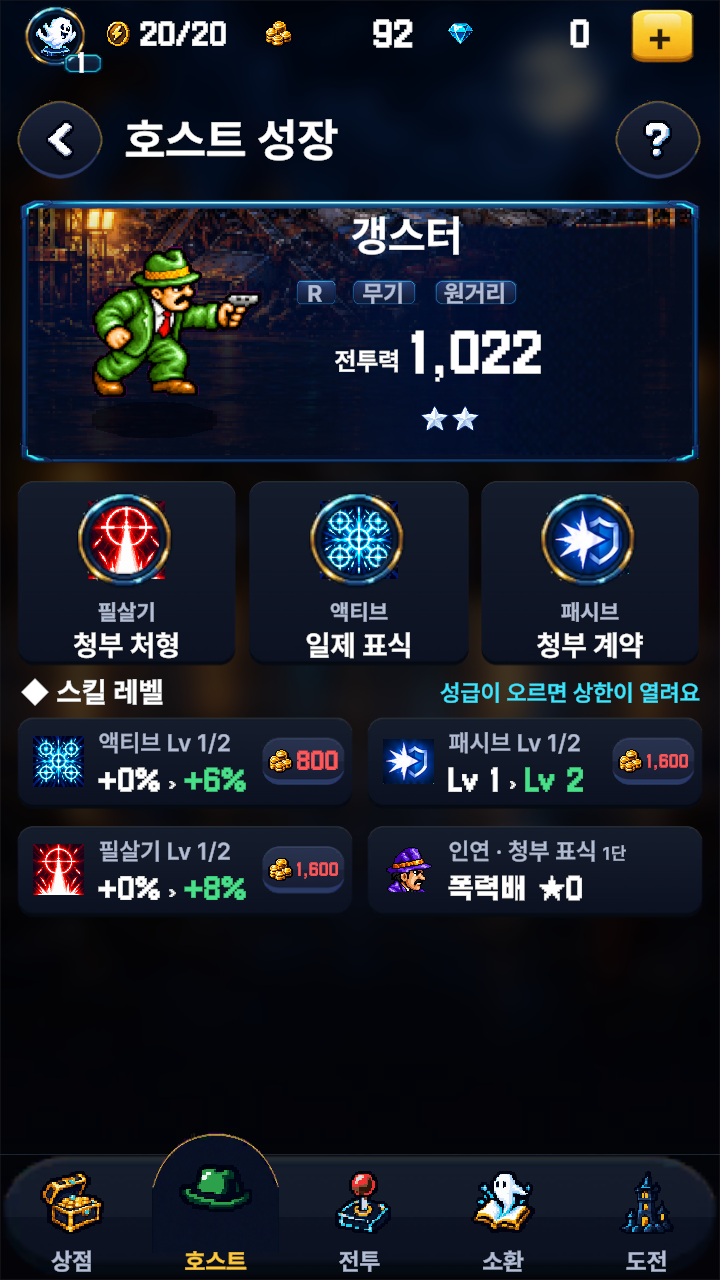
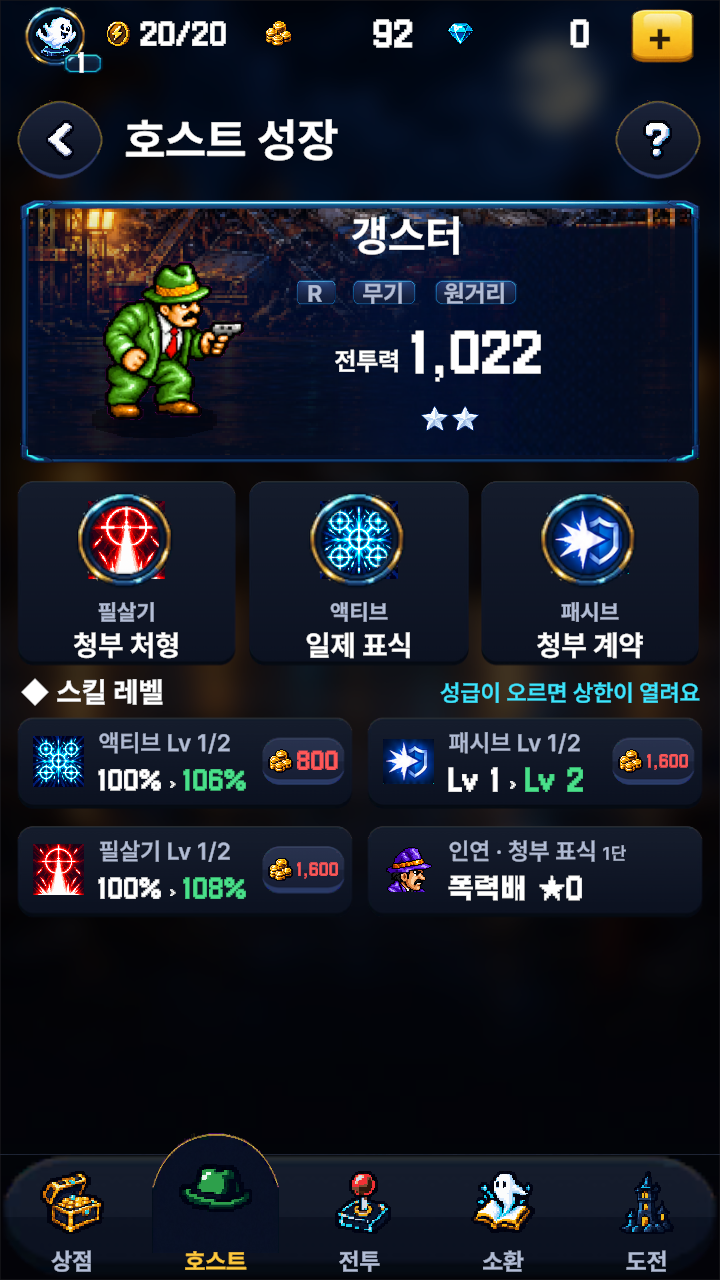
AVSR 육성 — 유령 능력치 8줄(치명타 피해 · 사거리 되살림) · 스킬 위력을 「100% › 106%」 로(PD 2026-10-29)
- 유령 강화: 공격력 · 호스트 체력 · 치명타 · 치명타 피해(+1%p/단계) · 공격 속도 · 이동 속도 · 사거리(직업별 0.3~1%/단계) · 받는 피해 감소
  · 육성 개편 때 빠졌던 두 줄 — PD 「치명타 피해도 있지 않았어? 스탯 종류가 너무 적다」
  · 사거리는 판 계산(HostStats.UpgradedRange)에 유령 사거리 단계를 넘기도록 다시 연결
  · 설정 파일(GameConfig.asset) 값도 0 → 1(코드 기본값만 바꾸면 저장된 0 이 남아 줄이 잠겼다)
- 호스트 스킬 레벨 칸: 「+0% › +6%」(효과 없는 것처럼 읽힘) → 「100% › 106%」 · 필살기 「100% › 108%」
- 캡처로 확인(유령 8줄 · 호스트 성장)

Changed region(s): [[0.1222, 0.1875, 0.3667, 0.3438], [0.1222, 0.6875, 0.3361, 0.7188], [0.1222, 0.5938, 0.3361, 0.625]]

diff --git a/Assets/Scripts/Module/Lobby/RbGhostPage.cs b/Assets/Scripts/Module/Lobby/RbGhostPage.cs
@@ -23,8 +23,10 @@ namespace Game.Module.Lobby
         [SerializeField] private Sprite[] _icons = Array.Empty<Sprite>();   // 보상 아이콘(rb_icon_*_96) — 이름으로 찾는다
 
         // 유령 HP 는 육성 항목이 아니다(PD) — 「호스트 체력」 · 「받는 피해 감소」(= 방어 %p)는 유령 쪽 이름을 쓴다
+        // 치명타 피해 · 사거리를 되살렸다(PD 2026-10-29 「치명타 피해도 있지 않았어? 스탯 종류가 너무 적다」) — 예전 8칸 그대로
         private static readonly HostStat[] StatOrder =
-            { HostStat.Atk, HostStat.Hp, HostStat.Crit, HostStat.AtkSpeed, HostStat.MoveSpeed, HostStat.Defense };
+            { HostStat.Atk, HostStat.Hp, HostStat.Crit, HostStat.CritDamage, HostStat.AtkSpeed, HostStat.MoveSpeed,
+              HostStat.Range, HostStat.Defense };
         // 첨자는 `HostStat` 순서다
         private static readonly string[] StatKeys =
             { "ui.rb.ghost.stat.hp", "ui.stat.atk", "ui.stat.crit", "ui.stat.atkspeed", "ui.stat.range", "ui.stat.movespeed",
@@ -133,7 +135,13 @@ namespace Game.Module.Lobby
         }
 
         /// <summary>그 레벨까지 오른 값 — 치명타 · 받는 피해 감소는 %p, 나머지는 %(둘 다 「x%」 로 적는다).</summary>
-        private string Pct(HostStat stat, int lv) => $"{_player.GhostStatValue(stat, lv):0.#}%";
+        private string Pct(HostStat stat, int lv)
+        {
+            // 사거리는 직업마다 다르게 붙는다(근거리가 가장 크다) — 「원거리 ~ 근거리」
+            var c = _player.Config;
+            if (stat != HostStat.Range || c == null) return $"{_player.GhostStatValue(stat, lv):0.#}%";
+            return $"{c.RangePercentPerLevel(2) * lv:0.#}~{c.RangePercentPerLevel(0) * lv:0.#}%";
+        }
 
         private void Buy(HostStat stat)
         {

diff --git a/Assets/Scripts/Character/GameConfig.cs b/Assets/Scripts/Character/GameConfig.cs
@@ -987,10 +987,11 @@ namespace Game.Character
         [Tooltip("유령 강화 상한(유령 레벨 상한과 같다).")]
         [SerializeField] private int _ghostStatMax = 50;
         // 첨자는 `HostStat` 순서 — Hp · Atk · Crit · AtkSpeed · Range · MoveSpeed · CritDamage · Defense.
-        // 유령 강화 줄은 공격력 · 호스트 체력 · 치명타 · 공격 속도 · 이동 속도 · 받는 피해 감소 여섯이다 — 사거리 · 치명타 피해는 0(줄 없음).
+        // 유령 강화 줄은 공격력 · 호스트 체력 · 치명타 · 치명타 피해 · 공격 속도 · 이동 속도 · 사거리 · 받는 피해 감소 여덟이다.
         // 치명타 · 받는 피해 감소는 **더하는 %p**, 나머지는 **곱하는 %** 다.
         [Tooltip("유령 강화 한 단계 값(HostStat 순서). 치명타 · 받는 피해 감소(Defense)는 %p, 나머지는 %.")]
-        [SerializeField] private float[] _ghostStepValue = { 2f, 2f, 0.3f, 0.6f, 0f, 0.3f, 0f, 0.3f };
+        // 치명타 피해(+1%p) · 사거리(직업별 RangePercentPerLevel — 이 칸은 줄이 있다는 표시)를 되살렸다(PD 2026-10-29)
+        [SerializeField] private float[] _ghostStepValue = { 2f, 2f, 0.3f, 0.6f, 1f, 0.3f, 1f, 0.3f };
         // 한 단계 값은 `Projects/AVSR/Tools/balance10.py` 의 모델에서 나왔다(2026-10-13) — 개편 뒤 다시 잰다(TBD-BAL).
         [Tooltip("유령 강화 한 단계 골드 = 이 값 × 다음 레벨.")]
         [SerializeField] private int _ghostStatCostStep = 30;

diff --git a/Assets/Scripts/Module/Lobby/RbGrowthPage.cs b/Assets/Scripts/Module/Lobby/RbGrowthPage.cs
@@ -299,8 +299,9 @@ namespace Game.Module.Lobby
             return $"{p.GrowthAt(lv, max):0.#}%<size=70%> › </size><color={NextColor}>{p.GrowthAt(next, max):0.#}%</color>";
         }
 
+        // 「+0% › +6%」 는 효과가 없는 것처럼 읽혔다(PD 2026-10-29 「액티브 0퍼센트는 뭐야」) — 위력 그대로 「100% › 106%」
         private static string PowerLine(float now, float next)
-            => $"+{now * 100f:0.#}%<size=70%> › </size><color={NextColor}>+{next * 100f:0.#}%</color>";
+            => $"{(1f + now) * 100f:0.#}%<size=70%> › </size><color={NextColor}>{(1f + next) * 100f:0.#}%</color>";
 
         /// <summary>인연 짝 칸 — 짝 얼굴 · 짝 이름과 성급 · 지금 세기(두 성급 중 낮은 쪽).</summary>
         private void RefreshInyeon()

diff --git a/Assets/Scripts/User/PlayerDataService.cs b/Assets/Scripts/User/PlayerDataService.cs
@@ -689,7 +689,9 @@ namespace Game.User
         }
 
         // 사거리는 이제 키우지 않는다(유령 강화 줄 없음) — 옛 저장에 남은 단계가 판에 새지 않게 0
-        public float StatLevelEffective(string hostKey, HostStat stat) => 0f;
+        /// <summary>사거리 강화 단계 — 유령 「사거리」 줄(직업마다 다르게 붙는 값은 HostStats.UpgradedRange 가 곱한다).</summary>
+        public float StatLevelEffective(string hostKey, HostStat stat)
+            => !s_powerTest && stat == HostStat.Range ? GhostStatLevel(HostStat.Range) : 0f;
 
         public float StatBonusFlat(string hostKey, HostStat stat)
             => s_powerTest || !GameConfig.IsFlatStat(stat) ? 0f   // 권장 힘 시험 — 강화 0
